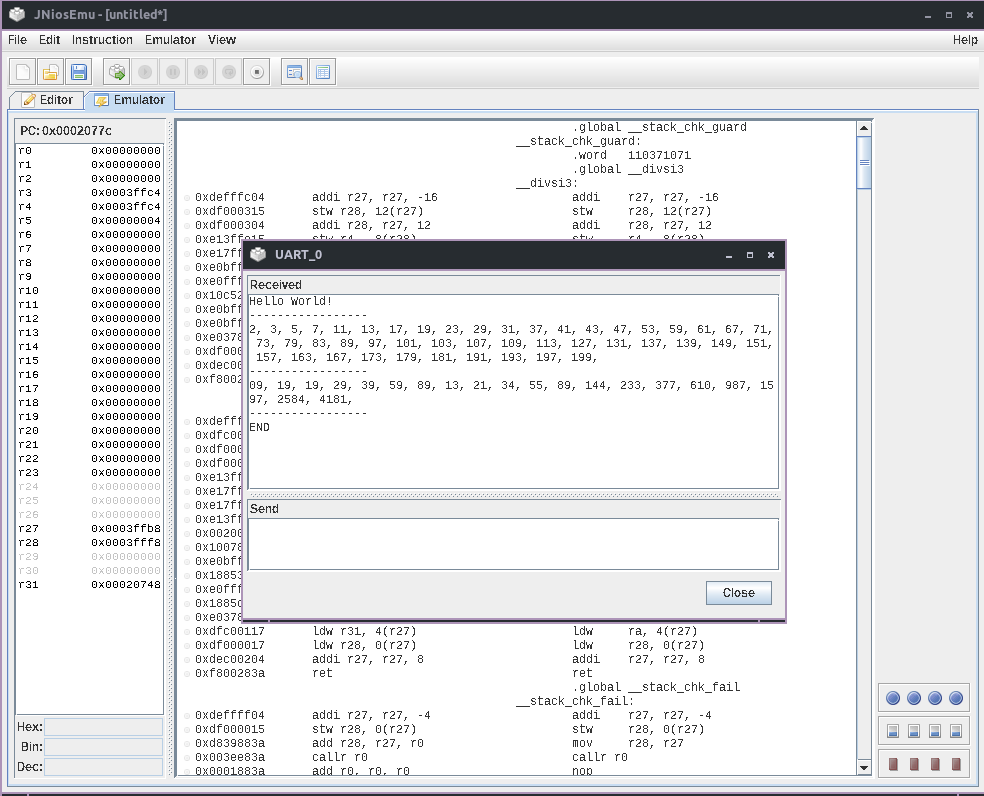
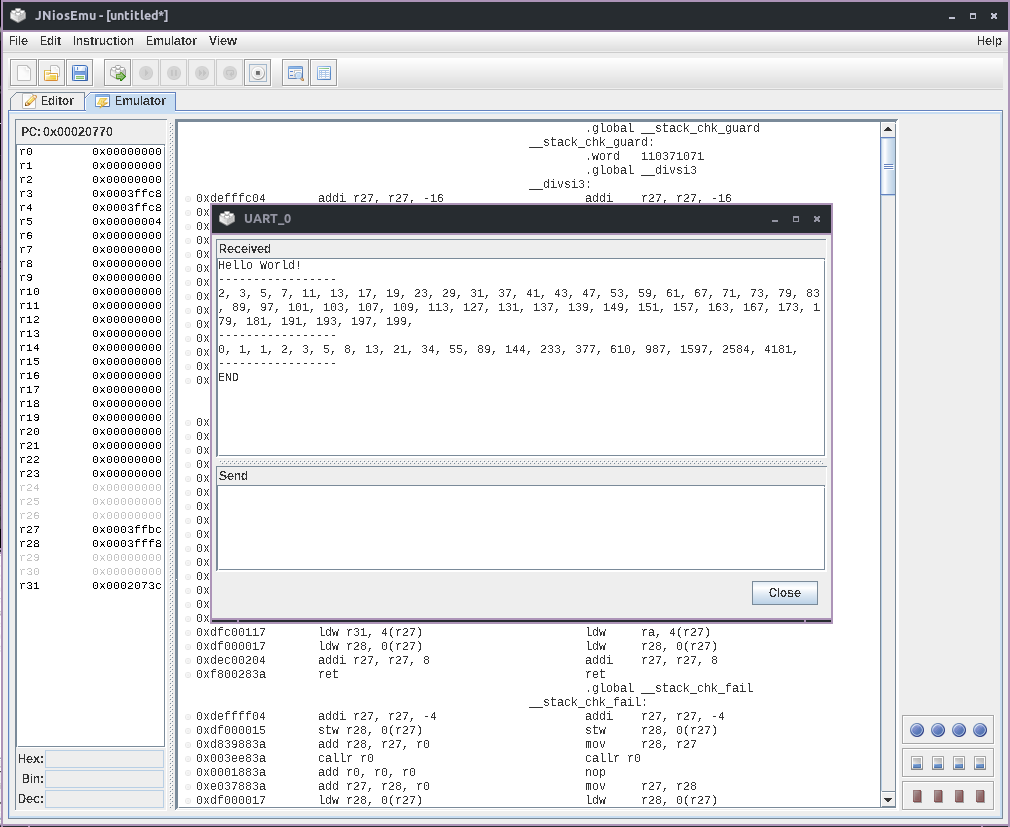
update

Changed region(s): [[0.0, 0.0, 1.0, 1.0]]

diff --git a/C/helloworld-primes-fib.c b/C/helloworld-primes-fib.c
@@ -43,7 +43,7 @@ void itoa(int num, char *buf){
 	int max = log(num, 10);
 	for(; i <= log(num, 10); i++)
 		buf[max - i] = '0' + ((num / pow(10, i)) % 10);
-	buf[++i] = 0;
+	buf[i] = 0;
 }
 
 void writeString(char *ptr){
@@ -84,7 +84,7 @@ int main() {
 	writeString(hw);
 	writeString(line);
 
-	for(int i=1; i < 200; i++) {
+	for(int i = 1; i < 200; i++) {
 		if(isPrime(i)) {	
 			char buf[4];
 			itoa(i, buf);
@@ -95,8 +95,8 @@ int main() {
 
 	writeString(line);
 
-	for(int i=0; i<20; i++){
-		char buf[10];
+	for(int i = 0; i < 20; i++){
+		char buf[6];
 		itoa(fib(i), buf);
 		writeString(buf);
 		writeString(sep);
